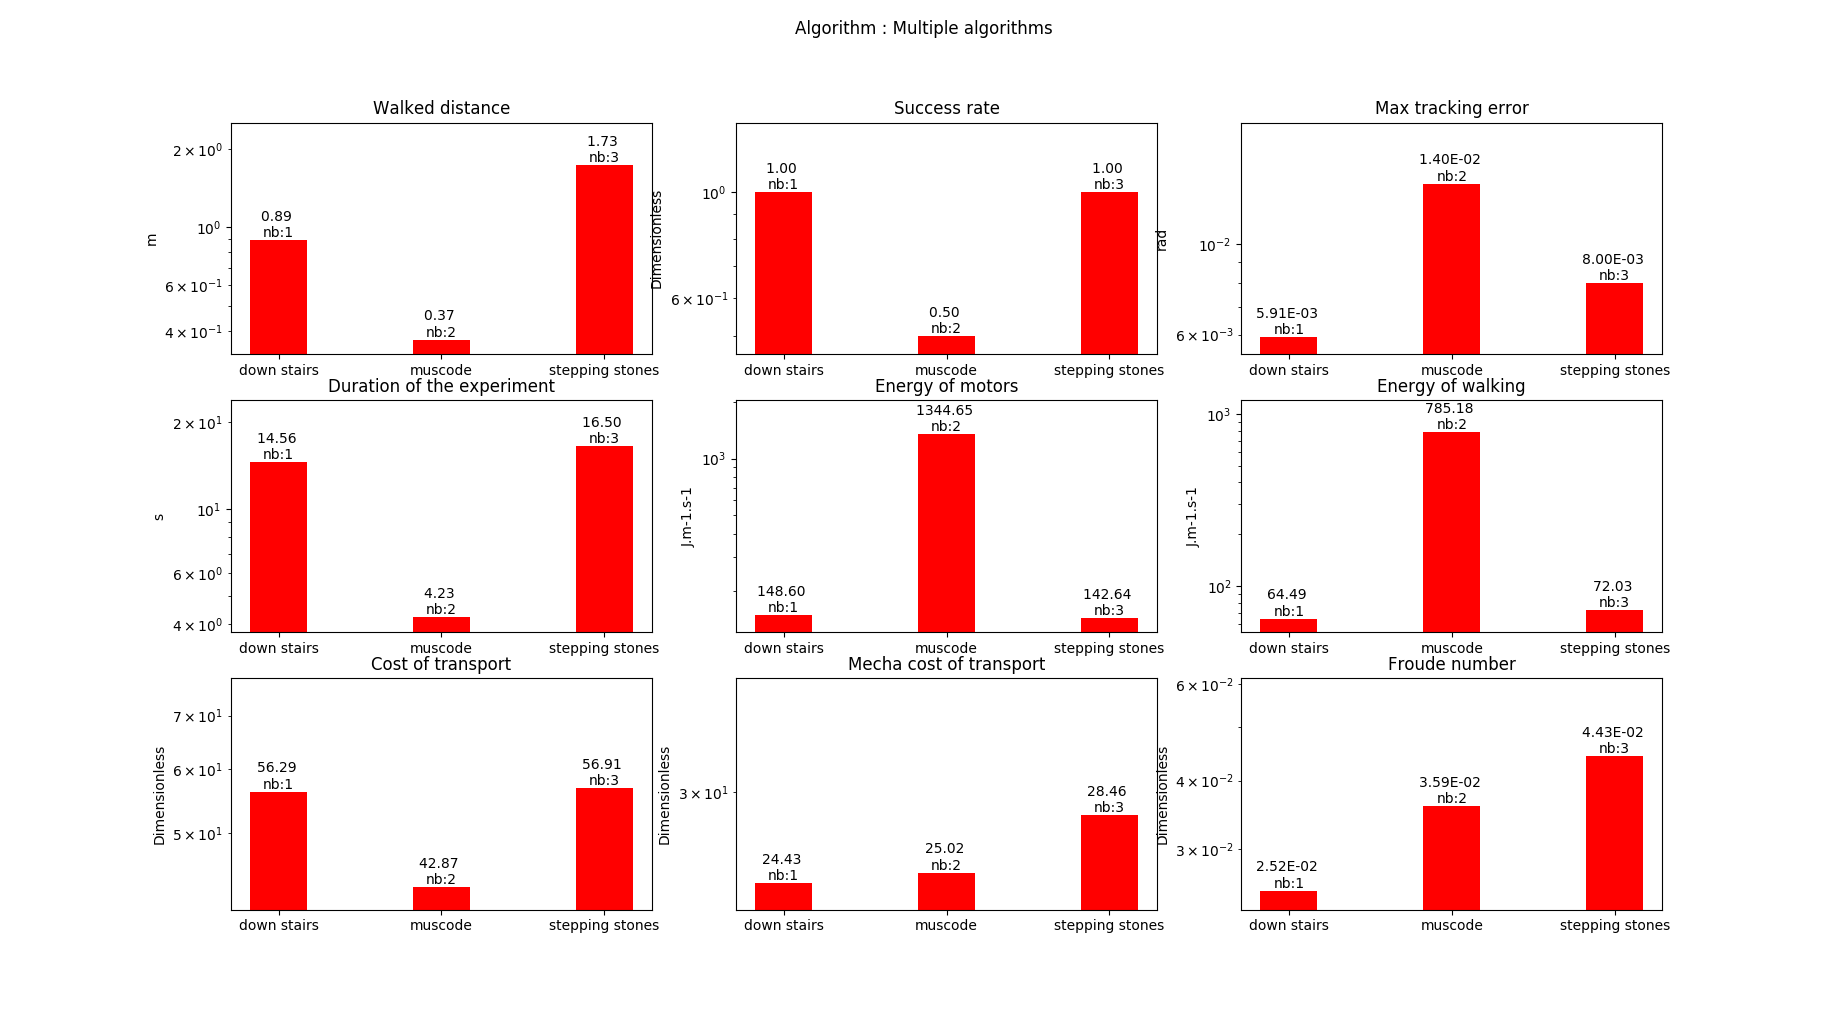
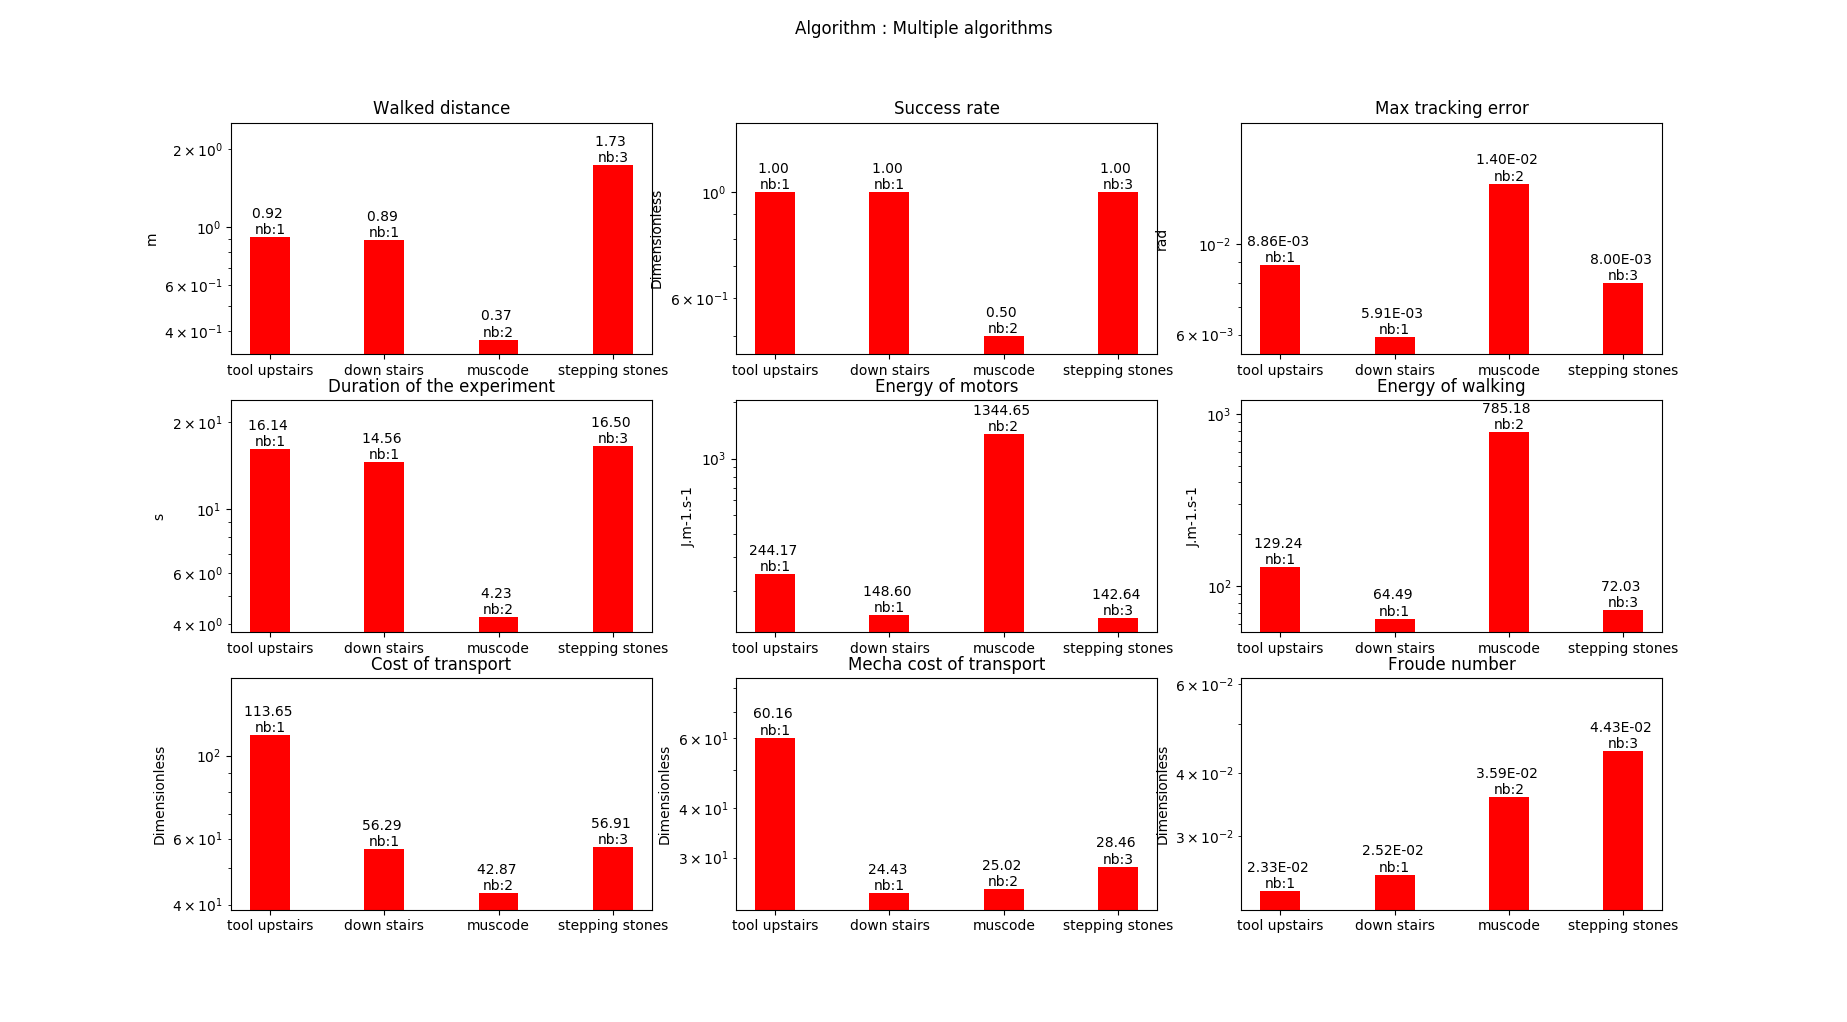
change climbing with tool

diff --git a/src/make_plot.py b/src/make_plot.py
@@ -22,7 +22,7 @@ class XP :
         self.Froude_list = []
         self.algo = ""
         self.setup = ""
-        self.algo_dico = {"10cm":1,"15cm":2,"hwalk":3,"NPG":4,"Beam":5,"kawada":6,"Multiple algorithms":7}#"Stepping stones":7,
+        self.algo_dico = {"10cm":1,"15cm":2,"hwalk":3,"NPG":4,"Beam":5,"kawada":6,"Multiple algorithms":7}#,"Morisawa":8}#"Stepping stones":7,
                           #"Down step":8,"Muscode":9}
         self.setup_dico = {'degrees':1,'Bearing':2,'Pushes':3,'Slopes':4,'Translations\nFB':5,'Translations\nSIDE':6,
                            'Gravels':7,'Slip floor \nblack carpet':8,'Slip floor \ngreen carpet':9,
@@ -106,7 +106,7 @@ def discrimin_xp(header_file,header_line,list_lines_split):
         elif header_line[i].find("climbSlope") != -1:
             current_algo = "hwalk"
         elif header_line[i].find("ClimbingWithTools") != -1:
-            current_algo = "10cm"
+            current_algo = "Multiple algorithms"
         elif header_line[i].find("StepStairsDownSeq") != -1:
             current_algo = "Multiple algorithms"#"Down step"
         elif header_line[i].find("stepOver") != -1:
@@ -142,7 +142,7 @@ def discrimin_xp(header_file,header_line,list_lines_split):
         elif header_line[i].find("climbSlope") != -1:
             current_setup = "Slp_"#"Slopes_"
         elif header_line[i].find("ClimbingWithTools") != -1:
-            current_setup = "tool"#"stairs_"
+            current_setup = "tool upstairs"#"stairs_"
         elif header_line[i].find("StepStairsDownSeq") != -1:
             current_setup = "down stairs"#"stairs_"
         elif header_line[i].find("stepOver") != -1:
